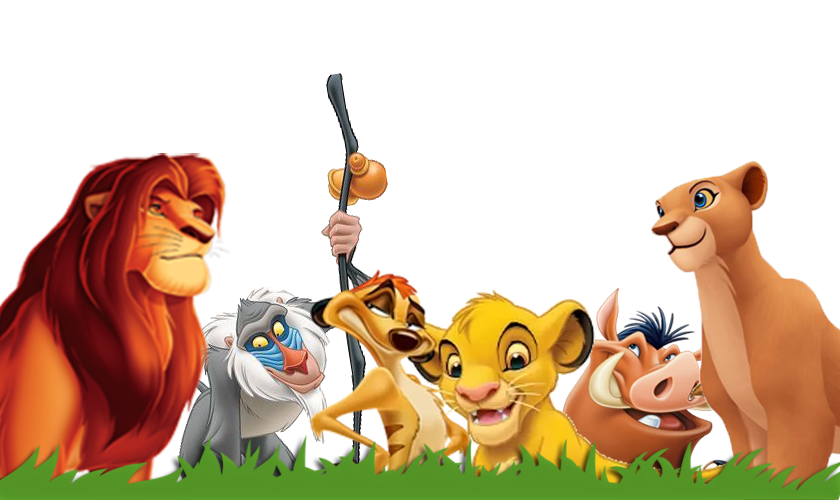
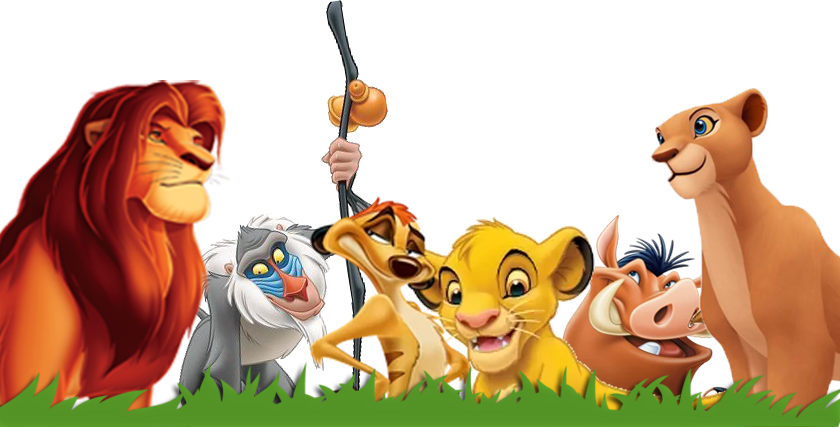
correções convite

diff --git a/portifolio/rei-leao/index.html b/portifolio/rei-leao/index.html
@@ -86,15 +86,11 @@ body{
 /* CONTEÚDO */
 
 .conteudo{
-    padding:80px 30px 40px;
+    padding:80px 30px 65px;
     text-align:center;
     background-image: url('papel.jpg');
     background-repeat: no-repeat;
     background-size: cover;
-    /* background:
-    radial-gradient(circle at 10% 10%, rgba(165,132,78,.08), transparent 15%),
-    radial-gradient(circle at 80% 70%, rgba(165,132,78,.08), transparent 15%),
-    #f5efdf; */
 }
 
 .texto{
@@ -150,7 +146,7 @@ body{
     display:flex;
     justify-content:center;
     gap:20px;
-    margin-top:35px;
+    margin-top:15px;
 }
 
 .item{
@@ -385,7 +381,7 @@ h2{
     </div>
 
     <div class="rodape">
-        <img src="chars.png" style="position: relative;width: 420px;z-index: 1000;bottom: 130px;">
+        <img src="chars.png" style="position: relative;width: 420px;z-index: 1000;bottom: 90px;">
     </div>
    
 </div>
